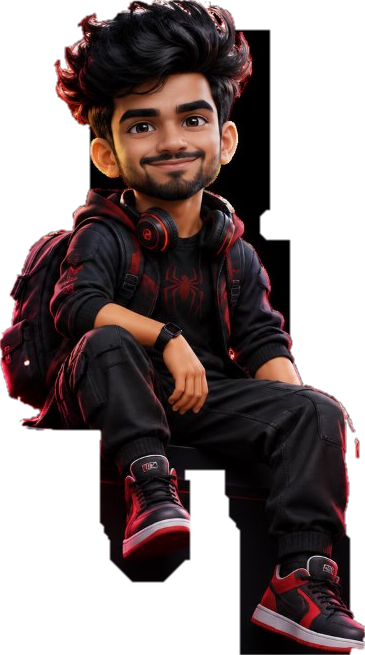
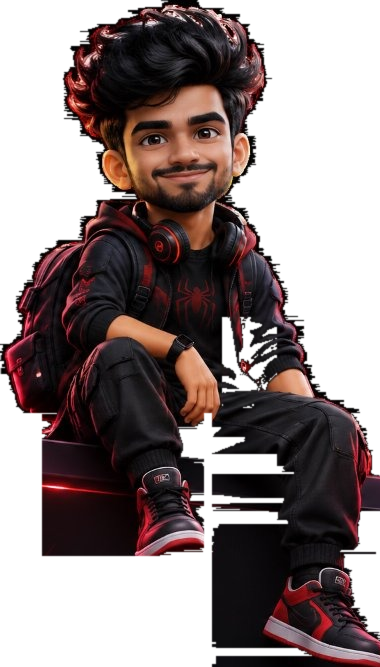
fix: pixel-perfect organic cutout of Mini Sai and hip-level cyber ledge alignment

diff --git a/src/components/hero/CinematicIntro.tsx b/src/components/hero/CinematicIntro.tsx
@@ -251,22 +251,28 @@ export const CinematicIntro: React.FC<CinematicIntroProps> = ({ onComplete }) =>
             mass: 1.1,
           }}
         >
-          {/* Landing Impact Ring */}
-          {hasLanded && (
-            <motion.div
-              initial={{ scale: 0, opacity: 1 }}
-              animate={{ scale: 2.2, opacity: 0 }}
-              transition={{ duration: 0.8, ease: "easeOut" }}
-              className="absolute -bottom-4 w-36 h-8 rounded-full border border-[#FF3548] pointer-events-none"
-            />
-          )}
+          {/* Mini Sai Character Asset Container */}
+          <div className="relative w-48 sm:w-56 h-auto">
+            {/* Cyber Ledge Perch: positioned exactly where his hips sit (~59% from top) */}
+            <div className="absolute top-[59%] left-1/2 -translate-x-1/2 w-56 sm:w-64 h-3.5 rounded-full bg-[#121621] border border-[#272D3A] shadow-[0_10px_25px_rgba(0,0,0,0.8)] flex items-center justify-center z-0">
+              <span className="w-40 sm:w-48 h-[2px] bg-gradient-to-r from-transparent via-[#FF3548] to-transparent shadow-[0_0_10px_#FF3548]" />
+            </div>
 
-          {/* Mini Sai Character Asset */}
-          <div className="relative w-44 sm:w-56 h-auto">
+            {/* Landing Impact Ring at seating level */}
+            {hasLanded && (
+              <motion.div
+                initial={{ scale: 0, opacity: 1 }}
+                animate={{ scale: 2.2, opacity: 0 }}
+                transition={{ duration: 0.8, ease: "easeOut" }}
+                className="absolute top-[56%] left-1/2 -translate-x-1/2 w-48 h-8 rounded-full border border-[#FF3548] pointer-events-none z-0"
+              />
+            )}
+
+            {/* Mini Sai Character Image (z-10 so his legs dangle naturally IN FRONT of the ledge) */}
             <img
               src="/mini-sai.png"
               alt="Mini Sai - 3D Cartoon Interactive Developer Mascot"
-              className={`w-full h-auto object-contain filter drop-shadow-[0_10px_35px_rgba(255,53,72,0.35)] transition-transform duration-300 ${
+              className={`relative z-10 w-full h-auto object-contain filter drop-shadow-[0_10px_35px_rgba(255,53,72,0.35)] transition-transform duration-300 ${
                 isWaving ? 'animate-bounce' : 'hover:scale-105'
               }`}
               draggable={false}
@@ -274,13 +280,8 @@ export const CinematicIntro: React.FC<CinematicIntroProps> = ({ onComplete }) =>
 
             {/* Glowing Hand Energy Flare when Shooting Web */}
             {webShotToButton && (
-              <div className="absolute top-[48%] right-[22%] w-5 h-5 rounded-full bg-[#FFFFFF] shadow-[0_0_20px_6px_#FF3548] animate-ping" />
+              <div className="absolute top-[48%] right-[22%] w-5 h-5 rounded-full bg-[#FFFFFF] shadow-[0_0_20px_6px_#FF3548] animate-ping z-20" />
             )}
-          </div>
-
-          {/* Futuristic Cyber-Pedestal Ledge */}
-          <div className="relative -mt-2 w-48 sm:w-60 h-3 rounded-full bg-[#121621] border border-[#272D3A] shadow-lg flex items-center justify-center">
-            <span className="w-28 h-[2px] bg-[#FF3548] shadow-[0_0_8px_#FF3548]" />
           </div>
         </motion.div>
 

diff --git a/src/components/MiniSai/MiniSai.tsx b/src/components/MiniSai/MiniSai.tsx
@@ -50,9 +50,9 @@ export const MiniSai: React.FC<MiniSaiProps> = ({ className = '' }) => {
         <span>Click Me!</span>
       </div>
 
-      {/* Cyber Ledge Perch Accent */}
-      <div className="absolute -bottom-1 left-1/2 -translate-x-1/2 w-14 h-1.5 rounded-full bg-[#121621] border border-[#272D3A] shadow-md pointer-events-none">
-        <span className="absolute top-0 left-2 right-2 h-[1px] bg-[#FF3548]/70" />
+      {/* Cyber Ledge Perch Accent behind dangling legs */}
+      <div className="absolute top-[58%] left-1/2 -translate-x-1/2 w-14 h-1 rounded-full bg-[#121621] border border-[#272D3A] shadow-md pointer-events-none z-0">
+        <span className="absolute top-0 left-1 right-1 h-[1px] bg-[#FF3548]/70" />
       </div>
 
       {/* Character Graphic */}
